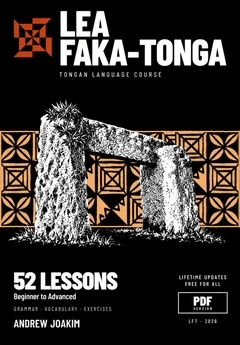
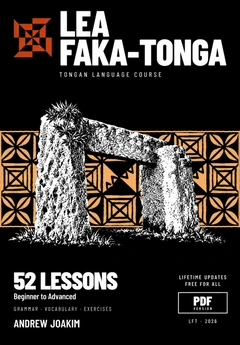
Publish approved original-sequence three-row book covers

diff --git a/src/premium/pages/Home.jsx b/src/premium/pages/Home.jsx
@@ -33,7 +33,7 @@ export default function Home() {
           </div>
           <figure className="wr-home__hero-book">
             <div className="wr-home__book-halo" aria-hidden="true" />
-            <img src="/covers/2026-09-30/cover-red-3d.webp" alt="The red Lea Faka-Tonga book, shown standing upright" width="900" height="1248" />
+            <img src="/covers/2026-09-30-three-row/cover-red-3d.webp" alt="The red Lea Faka-Tonga book, shown standing upright" width="900" height="1248" />
             <figcaption>The whole course is also available as a free book.</figcaption>
           </figure>
         </div>
